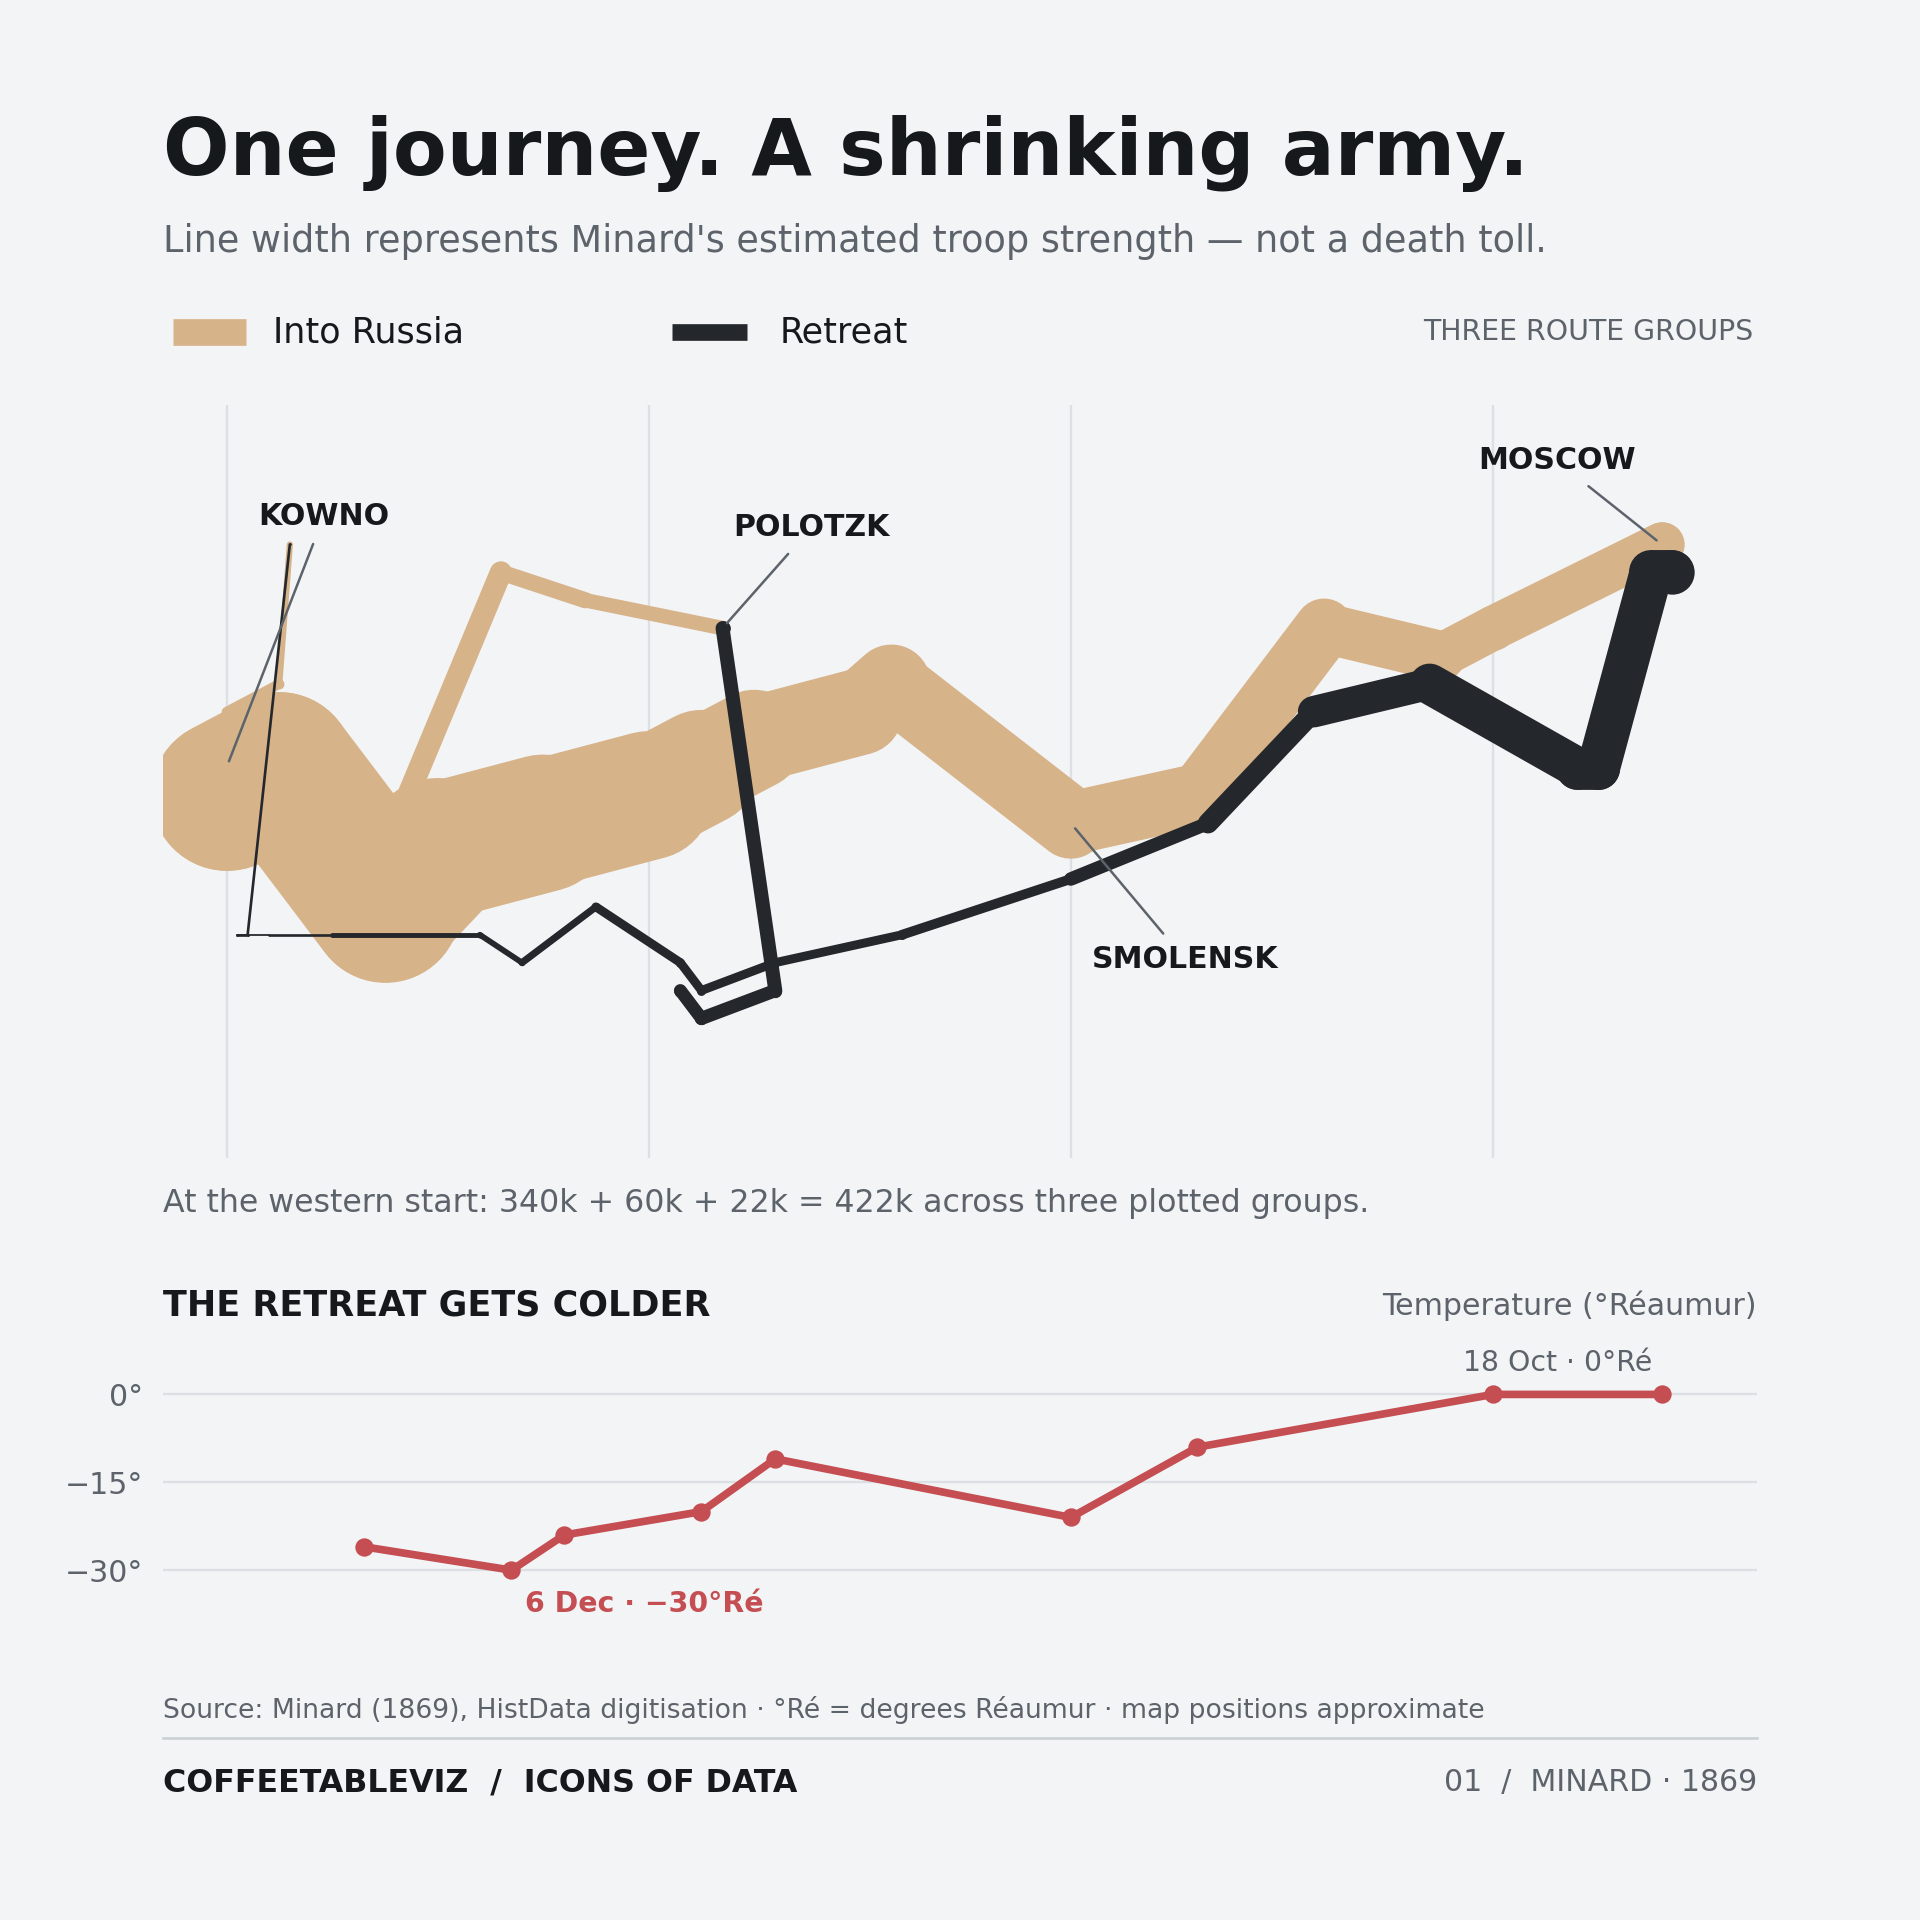
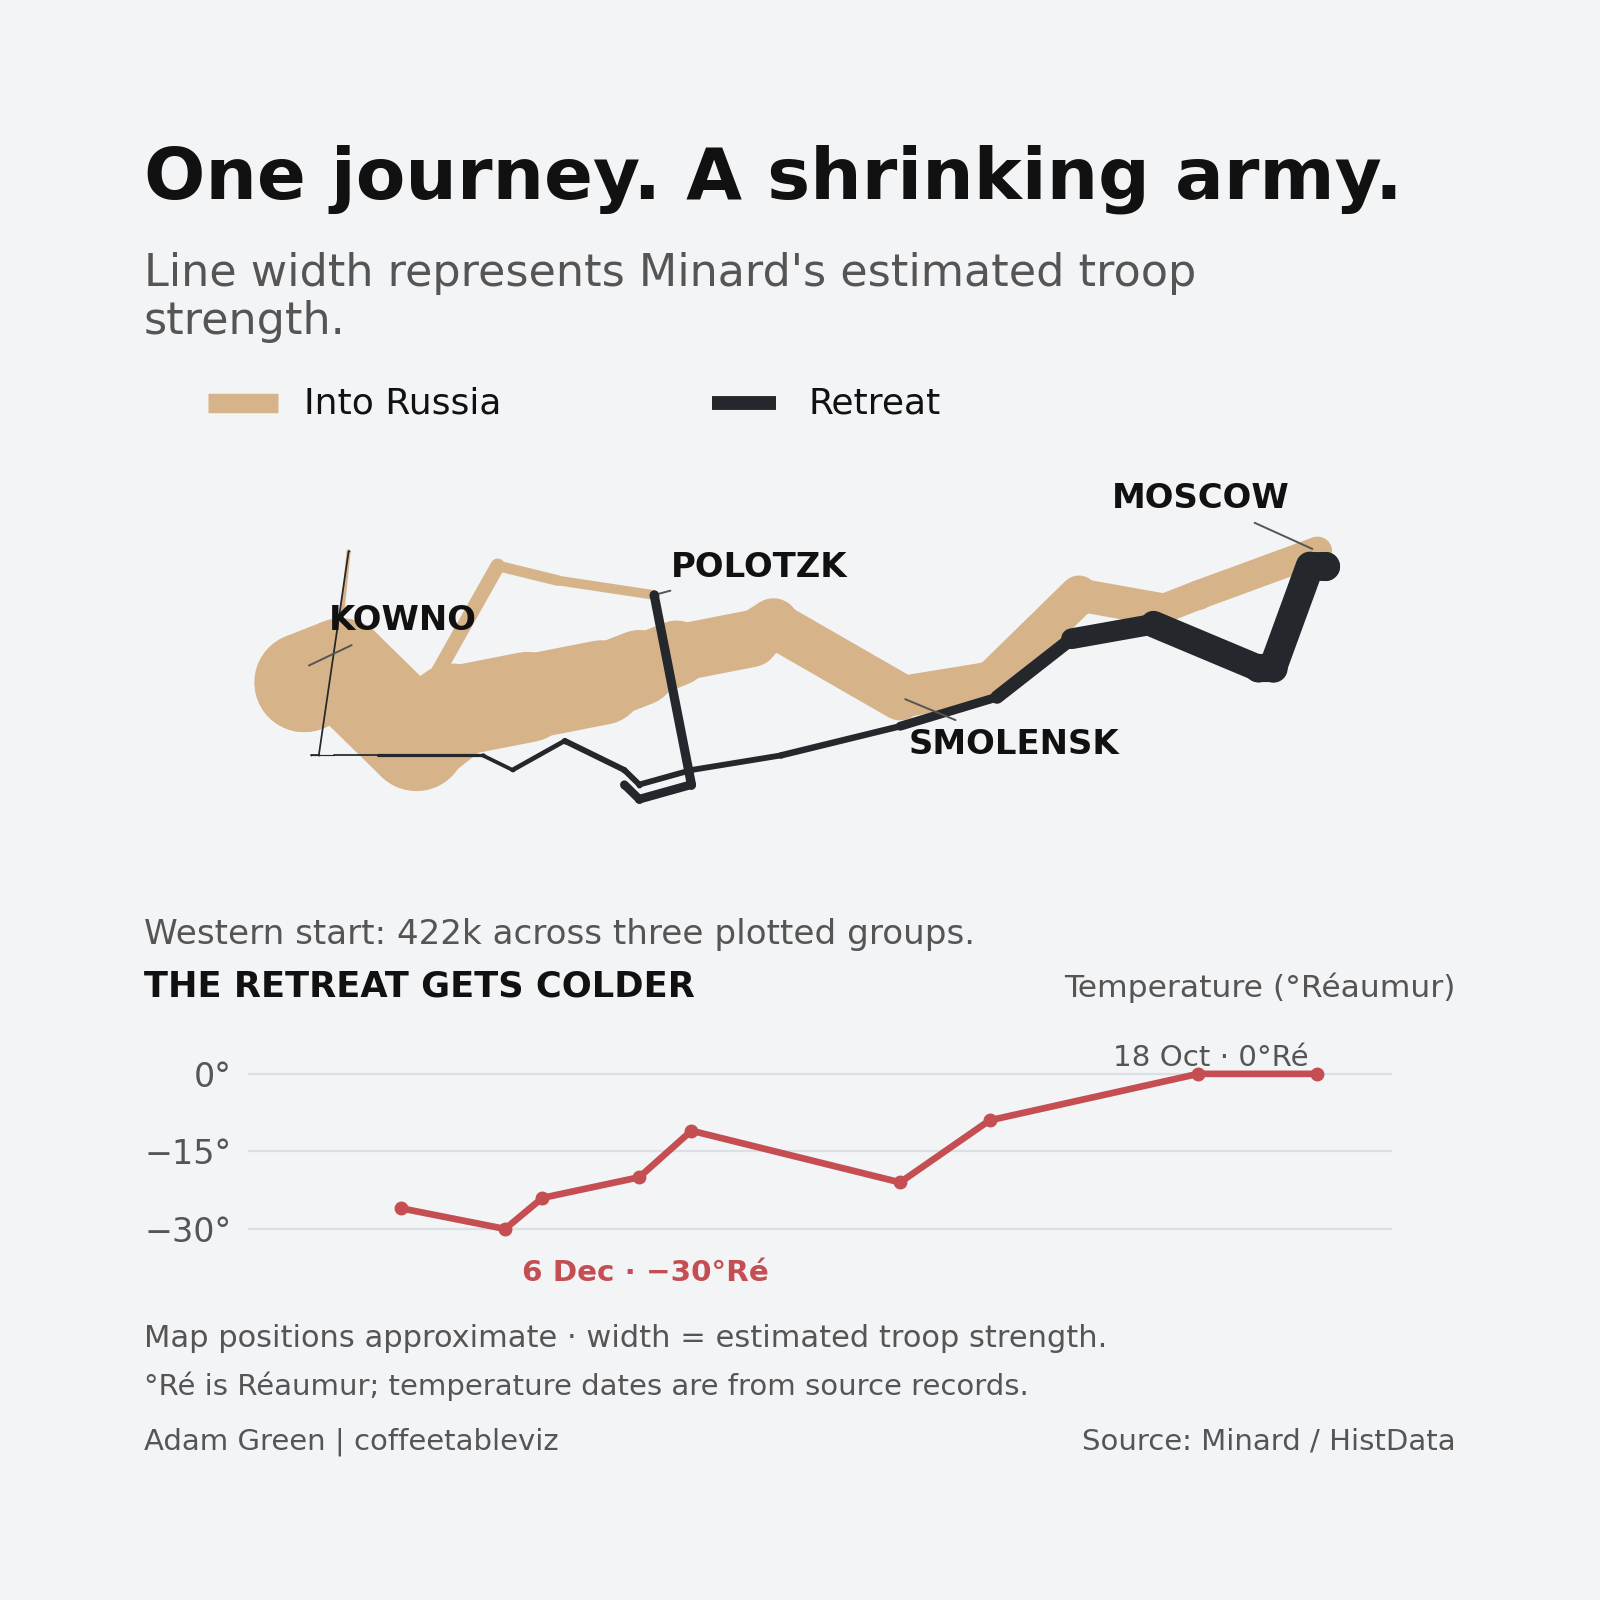
Publish approved Minard vNext chart and archive original
* Add source-validated Minard routes and temperature specialist chart with house styling

* Register Minard campaign in centrally styled renderer

* Add Minard vNext source-configured review fixture

* Keep Minard comparison config outside production archive config discovery

* Remove review-only Minard config from production discovery path

* Add Minard historical-data regression tests and mobile QA workflow

* Add Minard historical-data regression tests and mobile QA workflow

* Document centrally-rendered Minard specialist type

* Improve Minard mobile labels and temperature-panel hierarchy

* Stage checksum-verified Minard author-approved image in PR only

* Make Git blob checksum validation use exact null-delimited header

* Record Minard approved image checksum

* Stage exact approved Minard vNext PNG and archive original

* Remove temporary Minard exact-image staging workflow after successful verification

* Document author-approved Minard replacement and preserved original

---------

diff --git a/src/editorial_minard.py b/src/editorial_minard.py
@@ -1,0 +1,155 @@
+"""Shared-house reconstruction of Minard's 1812 campaign visualisation.
+
+Source: pinned HistData Minard.troops / Minard.cities / Minard.temp CSVs.
+Longitude/latitude placements are digitised historical-plot estimates, not
+navigation coordinates. Width is linear in survivors estimates, NOT deaths.
+Temperatures are Réaumur (°Ré); missing date fields are never invented.
+"""
+from __future__ import annotations
+
+import csv
+from collections import defaultdict
+from pathlib import Path
+import numpy as np
+import matplotlib.pyplot as plt
+from matplotlib.lines import Line2D
+
+from chart_style import BG, TEXT, MUTED, ACCENT, resolve_style
+
+OUTWARD="#D7B38A"
+RETURN="#24272B"
+GRID="#DCE0E4"
+ROOT_DATA="archive/projects/2026-10-icons-of-data/data"
+REQUIRED_TROOPS={"long","lat","survivors","direction","group"}
+REQUIRED_TEMP={"long","temp","days","date"}
+
+
+def _csv(path):
+    with Path(path).open(newline="",encoding="utf-8-sig") as f:
+        return list(csv.DictReader(f))
+
+
+def load_validate_minard(repo_root, config, route_rows):
+    """Use source CSVs in GitHub and validate the published historical framing."""
+    directory=Path(repo_root)/ROOT_DATA
+    troops=_csv(directory/"minard_troops.csv")
+    cities=_csv(directory/"minard_cities.csv")
+    temperatures=_csv(directory/"minard_temperature.csv")
+    if not (len(route_rows)==51 and len(troops)==51 and len(cities)==20 and len(temperatures)==9):
+        raise ValueError("Expected original 51 troop, 20 city, nine temperature records")
+    if not REQUIRED_TROOPS.issubset(troops[0]) or not REQUIRED_TEMP.issubset(temperatures[0]):
+        raise ValueError("Minard data columns missing")
+    if not all(str(x["rownames"])==str(y["rownames"]) and
+               str(x["survivors"])==str(y["survivors"]) for x,y in zip(route_rows,troops)):
+        raise ValueError("CHART_CONFIG troop rows don't match pinned historical troop CSV")
+    if set(r["direction"] for r in troops)!={"A","R"}:
+        raise ValueError("Expected separate outward and return routes")
+    if set(int(r["group"]) for r in troops)!={1,2,3}:
+        raise ValueError("Expected three route groups")
+    groups=defaultdict(list)
+    for r in troops:
+        key=(int(r["group"]),r["direction"])
+        groups[key].append(r)
+        if int(r["survivors"])<0:
+            raise ValueError("Negative troop strength")
+    if any(len(v)<2 for v in groups.values()) or len(groups)!=6:
+        raise ValueError("Minard route group missing")
+    starts=[int(groups[(i,"A")][0]["survivors"]) for i in (1,2,3)]
+    if starts!=[340000,60000,22000]:
+        raise ValueError("Source start estimates have changed")
+    if int(groups[(1,"A")][-1]["survivors"])!=100000 or int(groups[(1,"R")][-1]["survivors"])!=4000:
+        raise ValueError("Main route endpoint estimates have changed")
+    if sum(not str(r["date"]).strip() for r in temperatures)!=1:
+        raise ValueError("Exactly one missing historical temperature date must be retained")
+    if min(int(r["temp"]) for r in temperatures)!=-30:
+        raise ValueError("Historical recorded minimum changed")
+    return groups,cities,temperatures
+
+
+def _ribbon(ax, records, colour, scale=1.05, z=3):
+    """Line width is proportional to source troop estimate."""
+    xs=np.array([float(r["long"]) for r in records])
+    ys=np.array([float(r["lat"]) for r in records])
+    strengths=np.array([int(r["survivors"]) for r in records])
+    widths=(strengths/10000.0)*scale
+    for i in range(len(xs)-1):
+        ax.plot(xs[i:i+2],ys[i:i+2],lw=(widths[i]+widths[i+1])/2,
+                color=colour,zorder=z,solid_capstyle="round")
+    for x,y,width in zip(xs,ys,widths):
+        ax.plot([x],[y],marker="o",markersize=width,markeredgewidth=0,
+                color=colour,zorder=z)
+
+
+def render_minard_campaign(repo_root, config, rows):
+    from editorial_schematics import _add_header, _add_footer, _save
+
+    if config.get("render_profile")!="social_square":
+        raise ValueError("Minard vNext requires the approved Coffeetableviz house profile")
+    groups,cities,temps=load_validate_minard(repo_root,config,rows)
+    style=resolve_style(config)
+    fig=plt.figure(figsize=(8,8),facecolor=BG)
+    _add_header(fig,config["title"],config["subtitle"],config=config)
+
+    # Keep historic map ribbons while inheriting a standard frame and grey plot.
+    legend_y=.748
+    fig.add_artist(Line2D([.13,.174],[legend_y,legend_y],
+                    transform=fig.transFigure,lw=7,color=OUTWARD,solid_capstyle="butt"))
+    fig.text(.19,legend_y,"Into Russia",fontsize=13.0,color=TEXT,va="center")
+    fig.add_artist(Line2D([.445,.485],[legend_y,legend_y],
+                    transform=fig.transFigure,lw=5,color=RETURN,solid_capstyle="butt"))
+    fig.text(.505,legend_y,"Retreat",fontsize=13.0,color=TEXT,va="center")
+
+    ax=fig.add_axes([.155,.444,.715,.268],facecolor=BG)
+    ax.set_xlim(23.25,38.6)
+    ax.set_ylim(53.48,56.42)
+    ax.set_xticks([]);ax.set_yticks([])
+    for sp in ax.spines.values():sp.set_visible(False)
+    for group in (1,2,3):
+        _ribbon(ax,groups[(group,"A")],OUTWARD,z=2)
+        _ribbon(ax,groups[(group,"R")],RETURN,z=3)
+
+    # Source place labels — locations are on the digitised Minard map, not new geography.
+    spots={
+       "Kowno":(24,55.0,(9,17),"left"),
+       "Smolensk":(32,54.8,(3,-17),"left"),
+       "Moscou":(37.6,55.8,(-10,19),"right"),
+       "Polotzk":(28.7,55.5,(6,10),"left"),
+    }
+    for name,(x,y,shift,side) in spots.items():
+        if name not in {c["city"] for c in cities}:
+            raise ValueError(f"Missing historical city: {name}")
+        ax.annotate("MOSCOW" if name=="Moscou" else name.upper(),
+                    xy=(x,y),xytext=shift,textcoords="offset points",ha=side,va="center",
+                    fontsize=12.2,color=TEXT,fontweight="bold",
+                    arrowprops={"arrowstyle":"-","color":MUTED,"lw":.7},zorder=8)
+
+    fig.text(.09,.410,"Western start: 422k across three plotted groups.",
+            fontsize=12.3,color=MUTED)
+
+    fig.text(.09,.377,"THE RETREAT GETS COLDER",fontsize=12.7,fontweight="bold",color=TEXT)
+    fig.text(.91,.377,"Temperature (°Réaumur)",fontsize=11.3,ha="right",color=MUTED)
+    temperature=fig.add_axes([.155,.219,.715,.126],facecolor=BG)
+    tx=np.array([float(r["long"]) for r in temps])
+    ty=np.array([float(r["temp"]) for r in temps])
+    temperature.set_xlim(23.25,38.6)
+    temperature.set_ylim(-34,5)
+    temperature.plot(tx,ty,lw=2.4,color=ACCENT,marker="o",markersize=4.0,zorder=3)
+    temperature.set_yticks([0,-15,-30])
+    temperature.set_yticklabels(["0°","−15°","−30°"],fontsize=style["tick_label_fontsize"])
+    temperature.set_xticks([])
+    temperature.tick_params(length=0,pad=6,colors=MUTED)
+    temperature.grid(axis="y",color=GRID,lw=.8)
+    for sp in temperature.spines.values():sp.set_visible(False)
+    temperature.annotate("18 Oct · 0°Ré",(37.6,0),xytext=(-3,3),
+        textcoords="offset points",ha="right",fontsize=10.6,color=MUTED)
+    temperature.annotate("6 Dec · −30°Ré",(26.7,-30),xytext=(6,-11),
+        textcoords="offset points",ha="left",va="top",fontsize=10.6,
+        color=ACCENT,fontweight="bold")
+
+    fig.text(.09,.158,"Map positions approximate · width = estimated troop strength.",
+            fontsize=11.0,color=MUTED)
+    fig.text(.09,.128,"°Ré is Réaumur; temperature dates are from source records.",
+            fontsize=10.5,color=MUTED)
+
+    _add_footer(fig,"Adam Green | coffeetableviz",config["source_text"],config=config)
+    return _save(fig,repo_root,config)

diff --git a/tests/test_minard_vnext.py b/tests/test_minard_vnext.py
@@ -1,0 +1,50 @@
+"""Minard migration: original troop widths and geography remain data-led."""
+import csv
+from pathlib import Path
+import sys, importlib.util
+import pytest
+
+ROOT=Path(__file__).resolve().parents[1]
+sys.path.insert(0,str(ROOT/"src"))
+from editorial_minard import load_validate_minard
+BASE=ROOT/"archive/projects/2026-10-icons-of-data"
+REVIEW=BASE/"review/config_minard_vnext.py"
+
+
+def troop_rows():
+    with (BASE/"data/minard_troops.csv").open(encoding="utf-8",newline="") as f:
+        return list(csv.DictReader(f))
+
+
+def config():
+    module_spec=importlib.util.spec_from_file_location("minard_review",REVIEW)
+    module=importlib.util.module_from_spec(module_spec)
+    module_spec.loader.exec_module(module)
+    return module.CHART_CONFIG
+
+
+def test_original_historical_data_and_labels_are_kept():
+    groups,cities,temp=load_validate_minard(ROOT,config(),troop_rows())
+    assert sum(len(v) for v in groups.values())==51
+    assert (len(cities),len(temp))==(20,9)
+    assert [int(groups[(g,"A")][0]["survivors"]) for g in (1,2,3)]==[340000,60000,22000]
+    assert int(groups[(1,"R")][-1]["survivors"])==4000
+    assert min(int(x["temp"]) for x in temp)==-30
+    assert sum(not x["date"] for x in temp)==1
+
+
+def test_unverified_values_fail_closed():
+    rows=troop_rows()
+    rows[0]["survivors"]="340001"
+    with pytest.raises(ValueError,match="don't match"):
+        load_validate_minard(ROOT,config(),rows)
+    with pytest.raises(ValueError,match="51 troop"):
+        load_validate_minard(ROOT,config(),troop_rows()[:-1])
+
+
+def test_new_house_config_is_review_only():
+    cfg=config()
+    assert cfg["render_profile"]=="social_square"
+    assert cfg["chart_type"]=="minard_campaign"
+    assert cfg["data_file"]=="archive/projects/2026-10-icons-of-data/data/minard_troops.csv"
+    assert cfg["output_file"]=="output/minard_vnext_preview.png"

diff --git a/src/editorial_schematics.py b/src/editorial_schematics.py
@@ -17,7 +17,7 @@ SUBTEXT = "#555555"
 WHITE = "#FFFFFF"
 
 
-EDITORIAL_TYPES = {"route_zigzag", "route_longitude", "mode_clusters", "position_shift", "nightingale_rates", "hawkins_stripes"}
+EDITORIAL_TYPES = {"route_zigzag", "route_longitude", "mode_clusters", "position_shift", "nightingale_rates", "hawkins_stripes", "minard_campaign"}
 
 
 def _wrap(text, width, max_lines=2):
@@ -558,4 +558,7 @@ def render_editorial_schematic(repo_root, config, rows, columns=None):
     if chart_type == "hawkins_stripes":
         from editorial_hawkins import render_hawkins_stripes
         return render_hawkins_stripes(repo_root, config, rows)
+    if chart_type == "minard_campaign":
+        from editorial_minard import render_minard_campaign
+        return render_minard_campaign(repo_root, config, rows)
     raise ValueError(f"Unsupported editorial schematic chart_type: {chart_type}")

diff --git a/archive/projects/2026-10-icons-of-data/review/config_minard_vnext.py b/archive/projects/2026-10-icons-of-data/review/config_minard_vnext.py
@@ -1,0 +1,21 @@
+"""Review-only Minard campaign: no site PNG changes before visual approval."""
+CHART_CONFIG={
+    "data_file": "archive/projects/2026-10-icons-of-data/data/minard_troops.csv",
+    "data_format": "wide",
+    "chart_type": "minard_campaign",
+    "x_col": "long",
+    "y_col": "lat",
+    "series_col": None,
+    "value_col": None,
+    "filters": [],
+    "render_profile": "social_square",
+    "profile_overrides": {},
+    "title": "One journey. A shrinking army.",
+    "subtitle": "Line width represents Minard's estimated troop strength.",
+    "source_text": "Source: Minard / HistData",
+    "footer_left": "Adam Green | coffeetableviz",
+    "fig_width": 8.0,
+    "fig_height": 8.0,
+    "dpi": 200,
+    "output_file": "output/minard_vnext_preview.png",
+}

diff --git a/src/chart_config_template.py b/src/chart_config_template.py
@@ -4,7 +4,7 @@ CHART_CONFIG = {
     # ---------------------------
     "data_file": "data/your_file.csv",
     "data_format": "wide",
-    "chart_type": "dot",  # line | bar | dot | scatter | route_zigzag | route_longitude | mode_clusters | position_shift | nightingale_rates | hawkins_stripes
+    "chart_type": "dot",  # line | bar | dot | scatter | route_zigzag | route_longitude | mode_clusters | position_shift | nightingale_rates | hawkins_stripes | minard_campaign
     "orientation": None,  # None | horizontal for bar charts
 
     "x_col": "x_column",

diff --git a/archive/projects/2026-10-icons-of-data/review/minard_vnext_approval.md b/archive/projects/2026-10-icons-of-data/review/minard_vnext_approval.md
@@ -1,0 +1,15 @@
+# Minard chart 02 — approved house-vNext migration
+
+**Author approval:** 30 October 2026, in the ChatGPT chart review conversation.
+
+The author approved the 1600 × 1600 chart and 390px/320px previews displayed inline in the review. The replacement PNG was copied byte-for-byte from the previously successful GitHub Actions render, [run 41140184070](https://github.com/adamgreen1708/chart-templates/actions/runs/41140184070), artifact `minard-vnext-phone-review`. **It was not regenerated for publication.**
+
[1 lines of base64/hex data omitted]
+- Approved Git blob: `2c1af63849164e734716d62a05ef4773321cfb2d`
+- Site asset: `site/assets/icons-of-data/minard/02_shrinking_army.png`
+- Previous original preserved exactly at `archive/projects/2026-10-icons-of-data/legacy/02_shrinking_army_2026-10_original.png`
+- Previous original Git blob: `404cd6665f4fb1e558dd1280daf4c5ab9c63b12b`
+
+The original 51 troop-route records, 20 cities and nine temperature records remain in GitHub unchanged. The migration preserves line-width proportionality to estimated troop strength, three outward/retreat route groups, historic degrees Réaumur, missing-date uncertainty and approximate plotted map positions. It does **not** interpret route width as a death toll.
+
+The new renderer is `src/editorial_minard.py`, registered as `minard_campaign` through the shared renderer. Its review config and data integrity tests are preserved in GitHub. The temporary one-off staging workflow was removed after successfully committing the exact approved image on PR #166.
